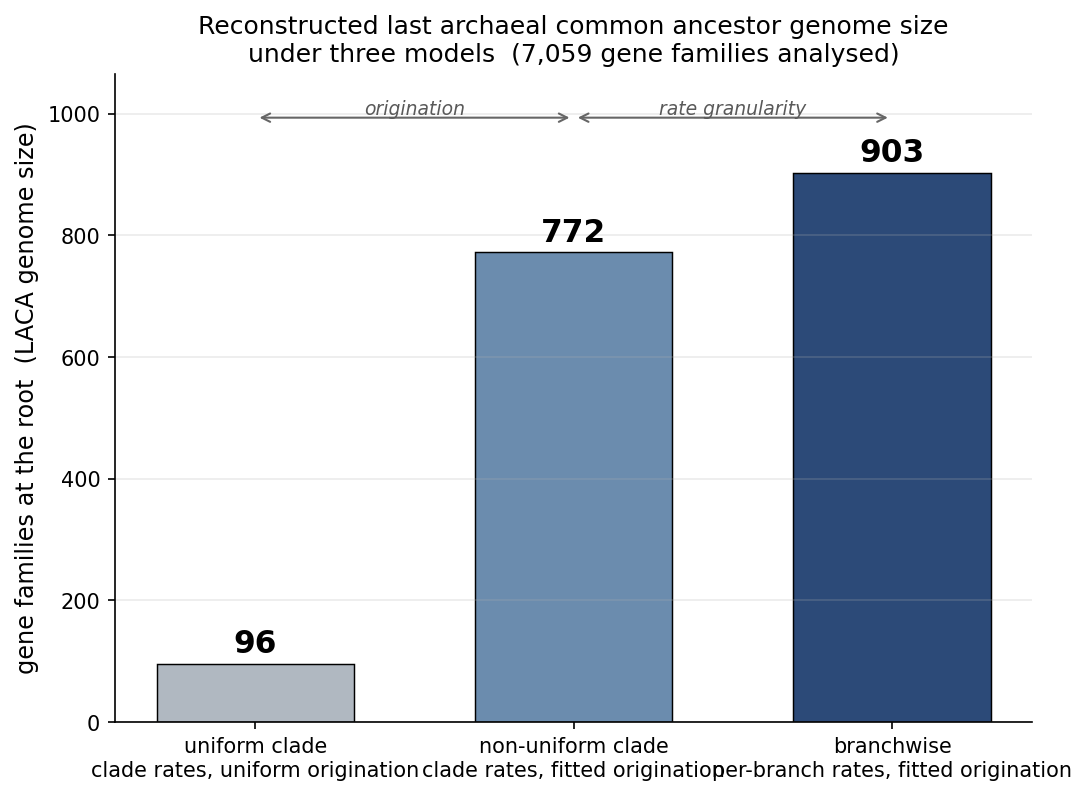
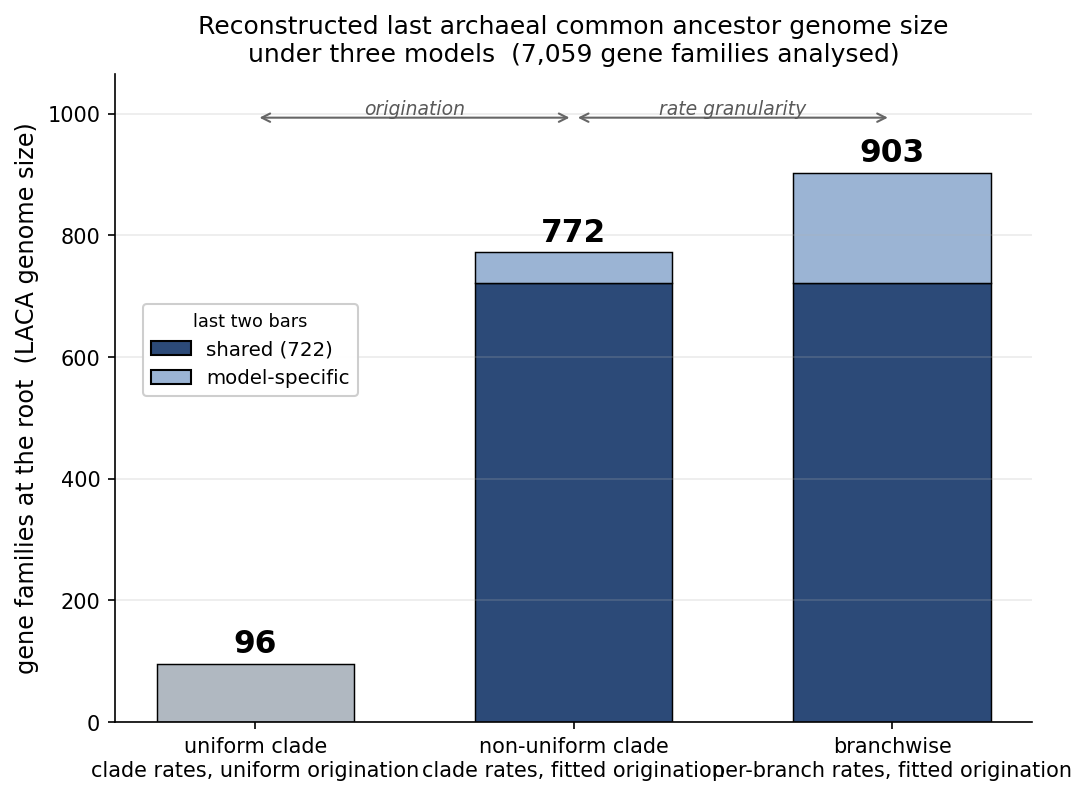
LACA 3-bar: restore shared/unique split for the two fitted-origination bars (722 shared)

Changed region(s): [[0.425, 0.3019, 0.6375, 0.9057], [0.7286, 0.2113, 0.9108, 0.3623], [0.1214, 0.3925, 0.3339, 0.5132]]

diff --git a/experiments/plot_laca_families.py b/experiments/plot_laca_families.py
@@ -1,38 +1,52 @@
-"""LACA genome-size bar chart, three models, isolating the origination effect from the
-rate-granularity effect. Order: uniform clade -> non-uniform clade -> branchwise.
-Reads laca_compare.py's 3-model JSON (uniform_clade / nonuniform_clade / branchwise)."""
+"""LACA genome-size bar chart, three models, isolating origination from rate-granularity.
+Order: uniform clade -> non-uniform clade -> branchwise. The last two bars (both fitted
+origination) are split into the families SHARED between them vs each model's own.
+Reads laca_compare.py's 3-model JSON."""
 import sys, json
 import matplotlib
 matplotlib.use("Agg")
 import matplotlib.pyplot as plt
+from matplotlib.patches import Patch
 
 d = json.load(open(sys.argv[1]))
 out = sys.argv[2] if len(sys.argv) > 2 else "laca_families.png"
 F = d["F"]
-models = [
-    ("uniform clade\nclade rates, uniform origination",      d["uniform_clade"]["content"],    "#b0b8c1"),
-    ("non-uniform clade\nclade rates, fitted origination",   d["nonuniform_clade"]["content"],  "#6b8cae"),
-    ("branchwise\nper-branch rates, fitted origination",     d["branchwise"]["content"],        "#2c4a78"),
-]
+uni = d["uniform_clade"]["content"]
+nu = d["nonuniform_clade"]["content"]
+bw = d["branchwise"]["content"]
+bwset = set(d["root_families_branchwise"]); nuset = set(d["root_families_nonuniform"])
+shared = len(bwset & nuset); nu_only = nu - shared; bw_only = bw - shared
+
+DARK, LIGHT, GREY = "#2c4a78", "#9bb4d4", "#b0b8c1"
 fig, ax = plt.subplots(figsize=(7.4, 5.4))
-xs = range(len(models))
-bars = ax.bar(xs, [m[1] for m in models], color=[m[2] for m in models],
-              width=0.62, edgecolor="k", linewidth=0.7)
-for b, m in zip(bars, models):
-    ax.text(b.get_x() + b.get_width() / 2, m[1] + max(mm[1] for mm in models) * 0.02,
-            f"{m[1]}", ha="center", fontsize=15, weight="bold")
-ax.set_xticks(list(xs)); ax.set_xticklabels([m[0] for m in models], fontsize=10)
+x = [0, 1, 2]
+# bar 1: uniform clade (solid grey)
+ax.bar(0, uni, width=0.62, color=GREY, edgecolor="k", linewidth=0.7)
+# bars 2,3: shared (dark) + model-specific (light)
+ax.bar([1, 2], [shared, shared], width=0.62, color=DARK, edgecolor="k", linewidth=0.7)
+ax.bar([1, 2], [nu_only, bw_only], bottom=[shared, shared], width=0.62,
+       color=LIGHT, edgecolor="k", linewidth=0.7)
+for xi, tot in zip(x, [uni, nu, bw]):
+    ax.text(xi, tot + max(uni, nu, bw) * 0.02, f"{tot}", ha="center", fontsize=15, weight="bold")
+ax.set_xticks(x)
+ax.set_xticklabels(["uniform clade\nclade rates, uniform origination",
+                    "non-uniform clade\nclade rates, fitted origination",
+                    "branchwise\nper-branch rates, fitted origination"], fontsize=10)
 ax.set_ylabel("gene families at the root  (LACA genome size)", fontsize=11.5)
 ax.set_title("Reconstructed last archaeal common ancestor genome size\n"
              f"under three models  ({F:,} gene families analysed)", fontsize=12)
-ax.set_ylim(0, max(m[1] for m in models) * 1.18)
+ax.set_ylim(0, max(uni, nu, bw) * 1.18)
 ax.spines[["top", "right"]].set_visible(False)
 ax.grid(axis="y", alpha=0.25)
+ax.legend(handles=[Patch(facecolor=DARK, edgecolor="k", label=f"shared ({shared})"),
+                   Patch(facecolor=LIGHT, edgecolor="k", label="model-specific")],
+          loc="upper left", bbox_to_anchor=(0.02, 0.66), fontsize=9.5, framealpha=0.95,
+          title="last two bars", title_fontsize=8.5)
 # annotate the two contrasts
-y = max(m[1] for m in models) * 1.10
+y = max(uni, nu, bw) * 1.10
 ax.annotate("", xy=(1, y), xytext=(0, y), arrowprops=dict(arrowstyle="<->", color="0.4"))
 ax.text(0.5, y * 1.005, "origination", ha="center", fontsize=9, color="0.35", style="italic")
 ax.annotate("", xy=(2, y), xytext=(1, y), arrowprops=dict(arrowstyle="<->", color="0.4"))
 ax.text(1.5, y * 1.005, "rate granularity", ha="center", fontsize=9, color="0.35", style="italic")
 fig.tight_layout(); fig.savefig(out, dpi=150, bbox_inches="tight")
-print(f"wrote {out}  ({[m[1] for m in models]})")
+print(f"wrote {out}  (uni={uni} nu={nu}[{shared}+{nu_only}] bw={bw}[{shared}+{bw_only}])")

diff --git a/docs/clade-vs-branchwise.tex b/docs/clade-vs-branchwise.tex
@@ -120,8 +120,9 @@ gain (duplication, transfer) is well summarised by one rate per clade; gene loss
 \caption{Reconstructed LACA genome size under three models, isolating the two effects. Uniform
 origination places only 96 families at the root; fitting origination with the same
 clade-grouped rates raises it to 772 (the origination effect), and the branch-wise rates add a
-further 131 to 903 (the rate-granularity effect). Origination dominates, rate granularity
-refines. (Of 7{,}059 families.)}
+further 131 to 903 (the rate-granularity effect). The two fitted-origination models share 722
+of these families (dark), differing only in small model-specific remainders (light). Origination
+dominates; rate granularity refines. (Of 7{,}059 families.)}
 \label{fig:laca}
 \end{figure}
 
